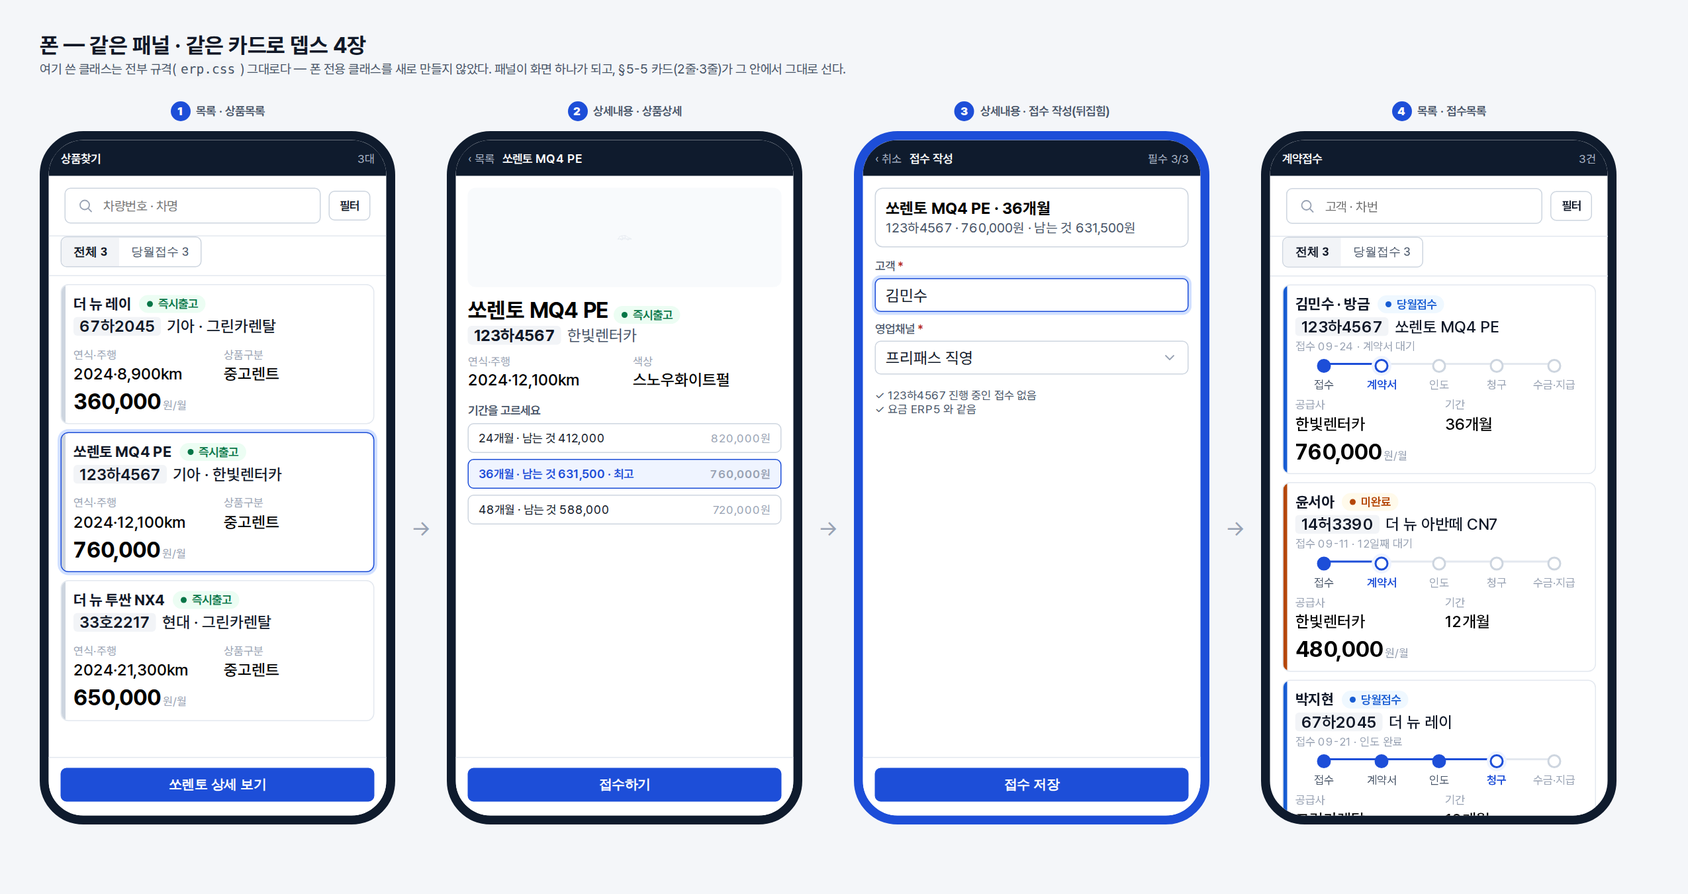
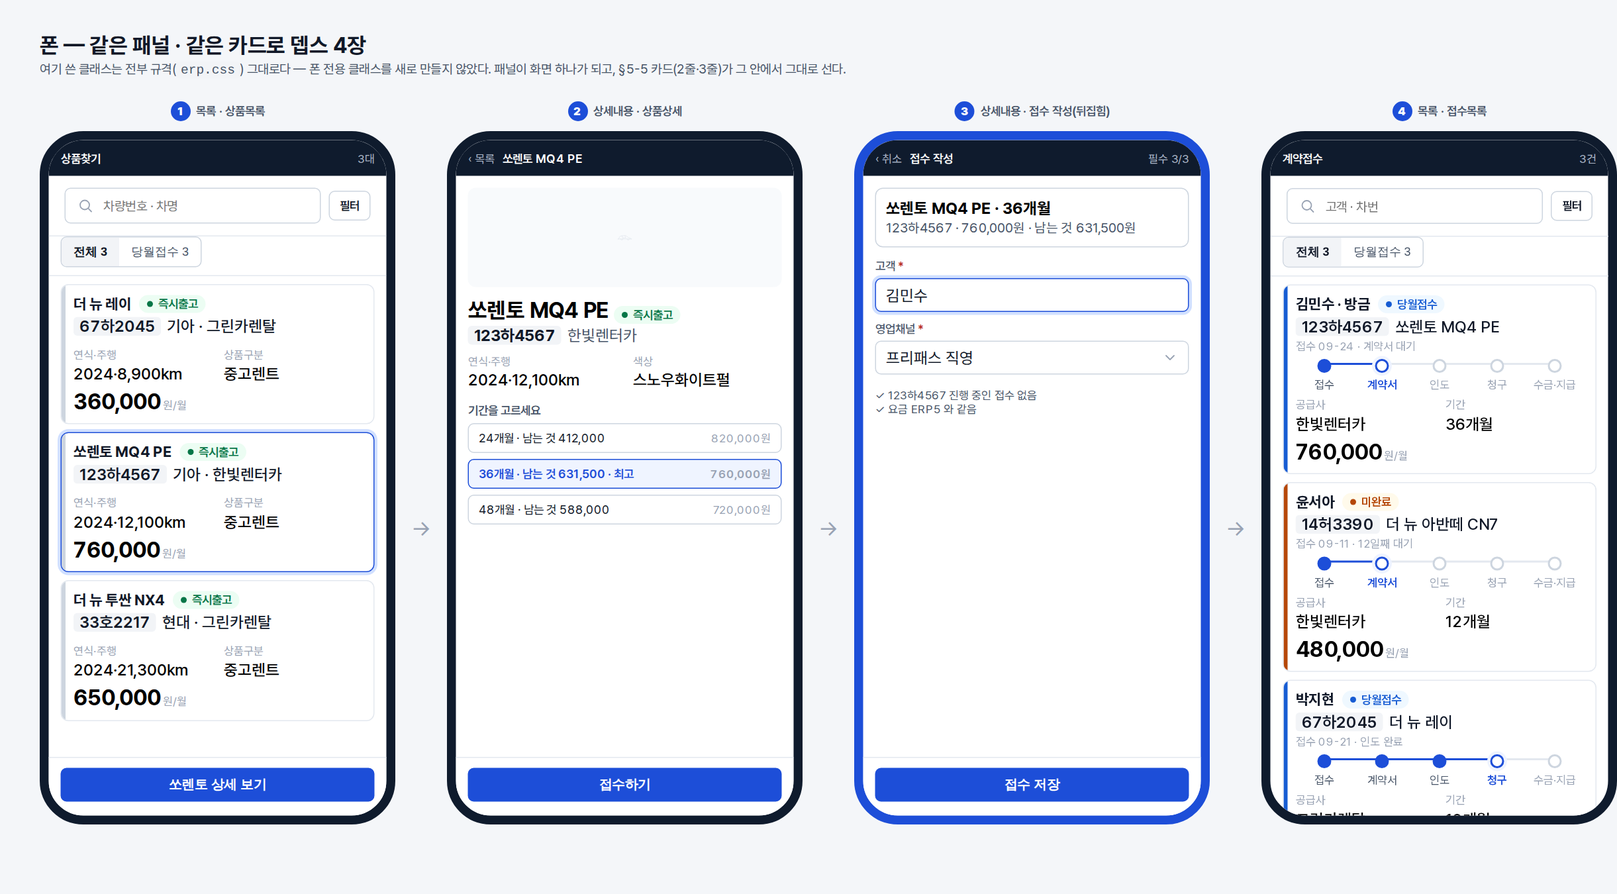
[Claude] 시안 I — 위 상품목록·상품상세, 아래 접수목록 전체 폭 배치. erp-panel--compact 를 opt-in modifier로 정리
Claude-Session: https://claude.ai/code/session_01VHqvSXhUy82o1cFFrYMP3F

diff --git a/design/erp-standard/reference/bottom-intake.html b/design/erp-standard/reference/bottom-intake.html
@@ -1,0 +1,94 @@
+<!doctype html>
+<html lang="ko">
+<head>
+<meta charset="utf-8">
+<meta name="viewport" content="width=device-width, initial-scale=1">
+<title>ERP 표준 — 위 상품목록·상품상세, 아래 접수목록 전체 폭 (참고)</title>
+<!-- §5-4 배치 변형 참고 — 대표 2026-09-24 「이건 접수를 하기 위한 거다 … 접수 과정을 명확하게 지켜보려면
+     아래쪽을 다 넓게 접수목록을 주고, 상품찾기와 상품상세는 그 위에 … 패널은 세 개가 맞다, 배치가 관건」.
+     위: 상품목록(좁게, erp-panel--compact) + 상품상세(넓게). 아래: 접수목록 전체 폭 — 접수가 이 화면의 목적이라
+     가장 넓고 눈에 띈다. 카드는 §5-3 원안(긴 가로 카드) 그대로. 이름 · 차량번호는 가상 예시다. -->
+<link rel="stylesheet" href="https://cdn.jsdelivr.net/gh/orioncactus/pretendard@v1.3.9/dist/web/variable/pretendardvariable-dynamic-subset.css">
+<link rel="stylesheet" href="../erp.css">
+<link rel="stylesheet" href="bottom-intake.css">
+</head>
+<body class="erp-app ref-page" data-screen="bottom-intake">
+
+<header class="erp-topbar" data-region="topbar">
+  <div class="erp-brand"><span class="erp-brand-mark">F</span>FreePass Admin</div>
+  <button class="erp-gsearch" type="button" aria-label="통합 검색"><svg viewBox="0 0 24 24"><circle cx="11" cy="11" r="7"/><path d="m21 21-4.3-4.3"/></svg>통합 검색<kbd>/</kbd></button>
+  <div class="erp-topbar-right">
+    <span class="erp-badge erp-badge--warn">가상 데이터</span>
+    <div class="erp-user"><span class="erp-avatar">관</span><div>관리자<small>프리패스 본사</small></div></div>
+  </div>
+</header>
+<p class="ref-note">접수가 이 화면의 목적이라 접수목록이 아래에서 전체 폭 · 절반 가까운 높이를 갖는다 — 1366px 폭 기준.</p>
+
+<main class="bi-main" data-region="grid">
+  <div class="bi-top">
+    <section class="erp-panel erp-panel--compact">
+      <div class="erp-panel-head"><span class="erp-panel-kind">목록</span><h2>상품목록</h2><span>3대</span></div>
+      <form class="erp-searchbar" data-region="filter" role="search"><label class="erp-search"><svg viewBox="0 0 24 24"><circle cx="11" cy="11" r="7"/><path d="m21 21-4.3-4.3"/></svg><input placeholder="차량번호 · 차명" aria-label="검색"></label><details class="erp-filter-more"><summary class="erp-btn erp-btn--sm">필터</summary></details></form>
+      <div class="erp-toolbar" data-region="grid-toolbar" style="padding:0 var(--erp-sp-3) var(--erp-sp-2)"><div class="erp-seg" role="group" aria-label="퀵 필터"><button type="button" aria-pressed="true">전체 3</button><button type="button" aria-pressed="false">즉시출고 3</button></div></div>
+      <div class="erp-panel-body"><div class="erp-rowcards" style="overflow:visible"><article class="erp-rowcard erp-rowcard--no-steps">
+    <div class="erp-rowcard-id"><h3 class="erp-rowcard-title"><a class="erp-rowcard-link" href="#">더 뉴 레이</a><span class="erp-badge erp-badge--ok">즉시출고</span></h3><div class="erp-rowcard-car"><b>67하2045</b>기아 · 그린카렌탈</div></div>
+    <dl class="erp-rowcard-facts"><div><dt>상품구분</dt><dd>중고렌트</dd></div><div><dt>기간</dt><dd>36개월</dd></div></dl>
+    <div class="erp-rowcard-amount"><strong>360,000<small>원/월</small></strong></div><svg class="erp-rowcard-go" viewBox="0 0 24 24" aria-hidden="true"><path d="m9 6 6 6-6 6"/></svg>
+  </article><article class="erp-rowcard erp-rowcard--no-steps" aria-current="true">
+    <div class="erp-rowcard-id"><h3 class="erp-rowcard-title"><a class="erp-rowcard-link" href="#">쏘렌토 MQ4 PE</a><span class="erp-badge erp-badge--ok">즉시출고</span></h3><div class="erp-rowcard-car"><b>123하4567</b>기아 · 한빛렌터카</div></div>
+    <dl class="erp-rowcard-facts"><div><dt>상품구분</dt><dd>중고렌트</dd></div><div><dt>기간</dt><dd>36개월</dd></div></dl>
+    <div class="erp-rowcard-amount"><strong>760,000<small>원/월</small></strong></div><svg class="erp-rowcard-go" viewBox="0 0 24 24" aria-hidden="true"><path d="m9 6 6 6-6 6"/></svg>
+  </article><article class="erp-rowcard erp-rowcard--no-steps">
+    <div class="erp-rowcard-id"><h3 class="erp-rowcard-title"><a class="erp-rowcard-link" href="#">더 뉴 투싼 NX4</a><span class="erp-badge erp-badge--ok">즉시출고</span></h3><div class="erp-rowcard-car"><b>33호2217</b>현대 · 그린카렌탈</div></div>
+    <dl class="erp-rowcard-facts"><div><dt>상품구분</dt><dd>중고렌트</dd></div><div><dt>기간</dt><dd>36개월</dd></div></dl>
+    <div class="erp-rowcard-amount"><strong>650,000<small>원/월</small></strong></div><svg class="erp-rowcard-go" viewBox="0 0 24 24" aria-hidden="true"><path d="m9 6 6 6-6 6"/></svg>
+  </article></div></div>
+    </section>
+
+    <section class="erp-panel">
+      <div class="erp-panel-head"><span class="erp-panel-kind">상세내용</span><h2>상품상세</h2><span>고른 상품</span></div>
+      <div class="bi-detail-body">
+        <div class="photo"><svg viewBox="0 0 120 60" aria-hidden="true"><path d="M8 42h104M14 42l6-14c2-5 6-8 12-9l22-3c8-1 16 1 22 6l12 10 14 3c4 1 6 4 6 7M30 42a8 8 0 1 0 16 0M78 42a8 8 0 1 0 16 0M40 20l4 14h24l-6-15"/></svg></div>
+        <h2 class="name">쏘렌토 MQ4 PE <span class="erp-badge erp-badge--ok">즉시출고</span></h2>
+        <p class="sub"><b>123하4567</b>기아 · 시그니처 · 한빛렌터카 · 디젤</p>
+        <dl class="erp-props">
+          <div><dt>연식 · 주행</dt><dd>2024 · 12,100km</dd></div>
+          <div><dt>색상</dt><dd>스노우화이트펄</dd></div>
+        </dl>
+        <div class="box">
+          <p class="box-title">기간을 고르세요</p>
+          <div class="bi-terms">
+            <div class="bi-term" aria-pressed="false"><b>24개월</b><strong>820,000원</strong><em>남는 것 412,000</em></div>
+            <div class="bi-term" aria-pressed="true"><b>36개월</b><strong>760,000원</strong><em>남는 것 631,500 · 최고</em></div>
+            <div class="bi-term" aria-pressed="false"><b>48개월</b><strong>720,000원</strong><em>남는 것 588,000</em></div>
+          </div>
+        </div>
+        <div class="bi-foot"><button class="erp-btn erp-btn--primary" type="button">접수하기</button></div>
+      </div>
+    </section>
+  </div>
+
+  <section class="erp-panel bi-bottom">
+    <div class="erp-panel-head"><span class="erp-panel-kind">목록</span><h2>접수목록</h2><span>전체 3건 · 오늘 접수 1건</span></div>
+    <form class="erp-searchbar" data-region="filter" role="search"><label class="erp-search"><svg viewBox="0 0 24 24"><circle cx="11" cy="11" r="7"/><path d="m21 21-4.3-4.3"/></svg><input placeholder="고객 · 차번 · 공급사 · 담당" aria-label="검색"></label><details class="erp-filter-more"><summary class="erp-btn erp-btn--sm">필터</summary></details></form>
+    <div class="erp-toolbar" data-region="grid-toolbar" style="padding:0 var(--erp-sp-4) var(--erp-sp-2)"><div class="erp-seg" role="group" aria-label="퀵 필터"><button type="button" aria-pressed="true">전체 3</button><button type="button" aria-pressed="false">당월접수 2</button><button type="button" aria-pressed="false">미완료 1</button></div></div>
+    <div class="erp-panel-body"><div class="erp-rowcards" style="padding:0 var(--erp-sp-4) var(--erp-sp-4)"><article class="erp-rowcard" data-tone="info">
+    <div class="erp-rowcard-id"><h3 class="erp-rowcard-title"><a class="erp-rowcard-link" href="#">김민수 · 방금</a><span class="erp-badge erp-badge--info">당월접수</span></h3><div class="erp-rowcard-car"><b>123하4567</b>쏘렌토 MQ4 PE</div><div class="erp-rowcard-meta">접수 09-24 · 계약서 대기</div></div>
+    <ol class="erp-rowcard-steps" aria-label="진행"><li data-state="done"><i></i>접수</li><li aria-current="step"><i></i>계약서</li><li><i></i>인도</li><li><i></i>청구</li><li><i></i>수금·지급</li></ol>
+    <dl class="erp-rowcard-facts"><div><dt>공급사</dt><dd>한빛렌터카</dd></div><div><dt>상품·기간</dt><dd>장기렌트 · 36개월</dd></div><div><dt>영업채널</dt><dd>프리패스 직영</dd></div><div><dt>보증금</dt><dd>없음</dd></div></dl>
+    <div class="erp-rowcard-amount"><strong>760,000<small>원/월</small></strong></div><svg class="erp-rowcard-go" viewBox="0 0 24 24" aria-hidden="true"><path d="m9 6 6 6-6 6"/></svg>
+  </article><article class="erp-rowcard" data-tone="warn">
+    <div class="erp-rowcard-id"><h3 class="erp-rowcard-title"><a class="erp-rowcard-link" href="#">윤서아</a><span class="erp-badge erp-badge--warn">미완료</span></h3><div class="erp-rowcard-car"><b>14허3390</b>더 뉴 아반떼 CN7</div><div class="erp-rowcard-meta">접수 09-11 · 12일째 대기</div></div>
+    <ol class="erp-rowcard-steps" aria-label="진행"><li data-state="done"><i></i>접수</li><li aria-current="step"><i></i>계약서</li><li><i></i>인도</li><li><i></i>청구</li><li><i></i>수금·지급</li></ol>
+    <dl class="erp-rowcard-facts"><div><dt>공급사</dt><dd>한빛렌터카</dd></div><div><dt>상품·기간</dt><dd>장기렌트 · 12개월</dd></div><div><dt>영업채널</dt><dd>서울중앙지점</dd></div><div><dt>보증금</dt><dd>없음</dd></div></dl>
+    <div class="erp-rowcard-amount"><strong>480,000<small>원/월</small></strong></div><svg class="erp-rowcard-go" viewBox="0 0 24 24" aria-hidden="true"><path d="m9 6 6 6-6 6"/></svg>
+  </article><article class="erp-rowcard" data-tone="info">
+    <div class="erp-rowcard-id"><h3 class="erp-rowcard-title"><a class="erp-rowcard-link" href="#">박지현</a><span class="erp-badge erp-badge--info">당월접수</span></h3><div class="erp-rowcard-car"><b>67하2045</b>더 뉴 레이</div><div class="erp-rowcard-meta">접수 09-21 · 인도 완료</div></div>
+    <ol class="erp-rowcard-steps" aria-label="진행"><li data-state="done"><i></i>접수</li><li data-state="done"><i></i>계약서</li><li data-state="done"><i></i>인도</li><li aria-current="step"><i></i>청구</li><li><i></i>수금·지급</li></ol>
+    <dl class="erp-rowcard-facts"><div><dt>공급사</dt><dd>그린카렌탈</dd></div><div><dt>상품·기간</dt><dd>장기렌트 · 12개월</dd></div><div><dt>영업채널</dt><dd>프리패스 직영</dd></div><div><dt>보증금</dt><dd>없음</dd></div></dl>
+    <div class="erp-rowcard-amount"><strong>420,000<small>원/월</small></strong></div><svg class="erp-rowcard-go" viewBox="0 0 24 24" aria-hidden="true"><path d="m9 6 6 6-6 6"/></svg>
+  </article></div></div>
+  </section>
+</main>
+</body>
+</html>

diff --git a/design/erp-standard/reference/mobile-depth.html b/design/erp-standard/reference/mobile-depth.html
@@ -16,7 +16,7 @@
 <p class="ref-desc">여기 쓴 클래스는 전부 규격(<code>erp.css</code>) 그대로다 — 폰 전용 클래스를 새로 만들지 않았다. 패널이 화면 하나가 되고, §5-5 카드(2줄·3줄)가 그 안에서 그대로 선다.</p>
 <div class="phones">
 <div class="phone-wrap"><p class="phone-cap"><b>1</b>목록 · 상품목록</p><div class="phone"><div class="phone-top">상품찾기<small>3대</small></div>
-  <div class="phone-body erp-panel erp-panel-body">
+  <div class="phone-body erp-panel erp-panel-body erp-panel--compact">
     <form class="erp-searchbar" data-region="filter" role="search">
       <label class="erp-search"><svg viewBox="0 0 24 24"><circle cx="11" cy="11" r="7"/><path d="m21 21-4.3-4.3"/></svg><input placeholder="차량번호 · 차명" aria-label="검색"></label>
       <details class="erp-filter-more"><summary class="erp-btn erp-btn--sm">필터</summary></details>
@@ -40,7 +40,7 @@
   </div>
   <div class="phone-bar"><button class="erp-btn erp-btn--primary" type="button">쏘렌토 상세 보기</button></div>
 </div></div><span class="arrow">→</span><div class="phone-wrap"><p class="phone-cap"><b>2</b>상세내용 · 상품상세</p><div class="phone"><div class="phone-top"><span class="phone-back">‹ 목록</span>쏘렌토 MQ4 PE</div>
-  <div class="phone-body erp-panel erp-panel-body" style="padding:var(--erp-sp-3)">
+  <div class="phone-body erp-panel erp-panel-body erp-panel--compact" style="padding:var(--erp-sp-3)">
     <div class="phone-photo"><svg viewBox="0 0 120 60" aria-hidden="true"><path d="M8 42h104M14 42l6-14c2-5 6-8 12-9l22-3c8-1 16 1 22 6l12 10 14 3c4 1 6 4 6 7M30 42a8 8 0 1 0 16 0M78 42a8 8 0 1 0 16 0M40 20l4 14h24l-6-15"/></svg></div>
     <h2 style="margin:10px 0 2px;font-size:var(--erp-fs-title);font-weight:var(--erp-fw-bold)">쏘렌토 MQ4 PE <span class="erp-badge erp-badge--ok">즉시출고</span></h2>
     <p style="margin:0 0 10px;color:var(--erp-color-text-2)"><b style="margin-right:6px;padding:0 6px;border-radius:var(--erp-r-sm);background:var(--erp-color-neutral-bg);color:var(--erp-color-text)">123하4567</b>한빛렌터카</p>
@@ -54,7 +54,7 @@
   </div>
   <div class="phone-bar"><button class="erp-btn erp-btn--primary" type="button">접수하기</button></div>
 </div></div><span class="arrow">→</span><div class="phone-wrap"><p class="phone-cap"><b>3</b>상세내용 · 접수 작성(뒤집힘)</p><div class="phone phone--flip"><div class="phone-top"><span class="phone-back">‹ 취소</span>접수 작성<small>필수 3/3</small></div>
-  <div class="phone-body erp-panel erp-panel-body" style="padding:var(--erp-sp-3)">
+  <div class="phone-body erp-panel erp-panel-body erp-panel--compact" style="padding:var(--erp-sp-3)">
     <div class="erp-inline-form" style="border:1px solid var(--erp-color-line-strong);border-radius:var(--erp-r-lg);padding:10px;margin-bottom:12px">
       <div><b style="display:block;font-weight:var(--erp-fw-bold)">쏘렌토 MQ4 PE · 36개월</b><small style="color:var(--erp-color-text-2)">123하4567 · 760,000원 · 남는 것 631,500원</small></div>
     </div>
@@ -64,7 +64,7 @@
   </div>
   <div class="phone-bar"><button class="erp-btn erp-btn--primary" type="submit">접수 저장</button></div>
 </div></div><span class="arrow">→</span><div class="phone-wrap"><p class="phone-cap"><b>4</b>목록 · 접수목록</p><div class="phone"><div class="phone-top">계약접수<small>3건</small></div>
-  <div class="phone-body erp-panel erp-panel-body">
+  <div class="phone-body erp-panel erp-panel-body erp-panel--compact">
     <form class="erp-searchbar" data-region="filter" role="search">
       <label class="erp-search"><svg viewBox="0 0 24 24"><circle cx="11" cy="11" r="7"/><path d="m21 21-4.3-4.3"/></svg><input placeholder="고객 · 차번" aria-label="검색"></label>
       <details class="erp-filter-more"><summary class="erp-btn erp-btn--sm">필터</summary></details>

diff --git a/design/erp-standard/reference/bottom-intake.css b/design/erp-standard/reference/bottom-intake.css
@@ -1,0 +1,29 @@
+/* 참고 페이지 — 위에 상품목록 · 상품상세를 나란히, 아래에 접수목록을 전체 폭으로 (대표 2026-09-24
+ *   「이건 접수를 하기 위한 거다 … 접수 과정을 명확하게 지켜보기 위해 아래쪽을 다 넓게 접수목록을 주고
+ *    상품찾기와 상품상세는 그 위에 배치 … 패널은 세 개가 맞다, 배치가 관건」)
+ * 접수가 이 화면의 목적이라 접수목록이 화면의 절반 가까이, 전체 폭을 갖는다. 그만큼 넓으니 접수 카드는
+ * §5-3 긴 카드(넓은 모양)를 그대로 쓴다 — erp-panel--compact 를 안 붙인다. 위 두 패널은 상품목록만 좁게(erp-panel--compact). */
+body.ref-page { margin: 0; padding: 0; height: 100vh; display: flex; flex-direction: column; background: var(--erp-color-bg); font-family: var(--erp-font-family); font-size: var(--erp-fs-body); }
+.bi-main { display: grid; grid-template-rows: 1fr 1fr; gap: var(--erp-sp-4); flex: 1; min-height: 0; padding: var(--erp-sp-4) var(--erp-sp-5); box-sizing: border-box; }
+.bi-top { display: grid; grid-template-columns: 380px minmax(0, 1fr); gap: var(--erp-sp-4); min-height: 0; }
+.ref-note { padding: 10px var(--erp-sp-5) 0; color: var(--erp-color-text-2); font-size: var(--erp-fs-label); }
+.bi-detail-body { padding: var(--erp-sp-4); display: flex; flex-direction: column; gap: 12px; }
+.bi-detail-body .photo { display: grid; place-items: center; height: 120px; border-radius: var(--erp-r-lg); background: var(--erp-color-sunken); color: var(--erp-color-line-strong); }
+.bi-detail-body .photo svg { width: 110px; height: 52px; fill: none; stroke: currentColor; stroke-width: 1.2; }
+.bi-detail-body .name { display: flex; align-items: center; gap: var(--erp-sp-2); margin: 0; font-size: var(--erp-fs-title); font-weight: var(--erp-fw-bold); color: var(--erp-color-text); }
+.bi-detail-body .sub { margin: 4px 0 0; color: var(--erp-color-text-2); }
+.bi-detail-body .sub b { margin-right: 6px; padding: 0 6px; border-radius: var(--erp-r-sm); background: var(--erp-color-neutral-bg); color: var(--erp-color-text); font-weight: var(--erp-fw-semibold); }
+.bi-detail-body .box { padding: 12px 14px; border: 1px solid var(--erp-color-line); border-radius: var(--erp-r-lg); background: var(--erp-color-sunken); }
+.bi-detail-body .box-title { margin: 0 0 8px; color: var(--erp-color-text-2); font-size: var(--erp-fs-label); font-weight: var(--erp-fw-semibold); }
+.bi-terms { display: flex; gap: var(--erp-sp-3); }
+.bi-term { flex: 1; display: flex; flex-direction: column; gap: 2px; padding: 9px 12px; border: 1px solid var(--erp-color-line-strong); border-radius: var(--erp-r-lg); background: var(--erp-color-surface); }
+.bi-term b { font-size: var(--erp-fs-label); font-weight: var(--erp-fw-semibold); color: var(--erp-color-text-2); }
+.bi-term strong { font-size: var(--erp-fs-section); font-weight: var(--erp-fw-bold); color: var(--erp-color-text); }
+.bi-term em { color: var(--erp-color-ok); font-size: var(--erp-fs-caption); font-style: normal; font-weight: var(--erp-fw-semibold); }
+.bi-term[aria-pressed="true"] { border: 2px solid var(--erp-color-primary); background: var(--erp-color-primary-weak); }
+.bi-term[aria-pressed="true"] b, .bi-term[aria-pressed="true"] strong { color: var(--erp-color-primary); }
+.bi-foot { margin-top: auto; padding-top: 10px; border-top: 1px solid var(--erp-color-line); }
+.bi-foot .erp-btn--primary { width: 100%; justify-content: center; height: 40px; font-size: var(--erp-fs-section); }
+/* 아래 접수목록 — 전체 폭, 긴 카드를 그대로(§5-3), 좁은 변형 없음 */
+.bi-bottom .erp-panel-body { padding: var(--erp-sp-2) 0 0; }
+.bi-bottom .erp-rowcards { background: transparent; }

diff --git a/design/erp-standard/reference/stacked-panels.html b/design/erp-standard/reference/stacked-panels.html
@@ -26,7 +26,7 @@
 
 <main class="stack-main" data-region="grid">
   <div class="stack-left">
-    <section class="erp-panel">
+    <section class="erp-panel erp-panel--compact">
       <div class="erp-panel-head"><span class="erp-panel-kind">목록</span><h2>상품목록</h2><span>3대</span></div>
       <form class="erp-searchbar" data-region="filter" role="search"><label class="erp-search"><svg viewBox="0 0 24 24"><circle cx="11" cy="11" r="7"/><path d="m21 21-4.3-4.3"/></svg><input placeholder="차량번호 · 차명" aria-label="검색"></label><details class="erp-filter-more"><summary class="erp-btn erp-btn--sm">필터</summary></details></form>
       <div class="erp-toolbar" data-region="grid-toolbar" style="padding:0 var(--erp-sp-3) var(--erp-sp-2)"><div class="erp-seg" role="group" aria-label="퀵 필터"><button type="button" aria-pressed="true">전체 3</button><button type="button" aria-pressed="false">즉시출고 3</button></div></div>
@@ -44,7 +44,7 @@
     <div class="erp-rowcard-amount"><strong>650,000<small>원/월</small></strong></div><svg class="erp-rowcard-go" viewBox="0 0 24 24" aria-hidden="true"><path d="m9 6 6 6-6 6"/></svg>
   </article></div></div>
     </section>
-    <section class="erp-panel">
+    <section class="erp-panel erp-panel--compact">
       <div class="erp-panel-head"><span class="erp-panel-kind">목록</span><h2>접수목록</h2><span>3건</span></div>
       <form class="erp-searchbar" data-region="filter" role="search"><label class="erp-search"><svg viewBox="0 0 24 24"><circle cx="11" cy="11" r="7"/><path d="m21 21-4.3-4.3"/></svg><input placeholder="고객 · 차번" aria-label="검색"></label><details class="erp-filter-more"><summary class="erp-btn erp-btn--sm">필터</summary></details></form>
       <div class="erp-toolbar" data-region="grid-toolbar" style="padding:0 var(--erp-sp-3) var(--erp-sp-2)"><div class="erp-seg" role="group" aria-label="퀵 필터"><button type="button" aria-pressed="true">전체 3</button><button type="button" aria-pressed="false">당월접수 2</button></div></div>

diff --git a/design/erp-standard/erp.css b/design/erp-standard/erp.css
@@ -432,8 +432,8 @@
 .erp-panel-head span { margin-left: auto; color: var(--erp-color-text-3); font-size: var(--erp-fs-caption); }
 .erp-panel-body { flex: 1; min-height: 0; overflow: auto; }
 /* 목록 패널 안 — 좁은 폭에서도 서는 작은 긴 카드(§5-3 erp-rowcard 를 그대로 쓰되 칸을 좁힌다) */
-.erp-panel .erp-rowcards { padding: var(--erp-sp-2) var(--erp-sp-3) var(--erp-sp-3); gap: 8px; background: transparent; }
-.erp-panel .erp-rowcard { grid-template-columns: minmax(0, 1fr); grid-template-areas: "id" "steps" "facts" "amount"; gap: 6px; padding: 10px var(--erp-sp-3); }
-.erp-panel .erp-rowcard-facts { grid-template-columns: repeat(2, minmax(0, 1fr)); gap: 4px var(--erp-sp-3); }
-.erp-panel .erp-rowcard-amount { text-align: left; }
-.erp-panel .erp-rowcard-go { display: none; }
+.erp-panel--compact .erp-rowcards { padding: var(--erp-sp-2) var(--erp-sp-3) var(--erp-sp-3); gap: 8px; background: transparent; }
+.erp-panel--compact .erp-rowcard { grid-template-columns: minmax(0, 1fr); grid-template-areas: "id" "steps" "facts" "amount"; gap: 6px; padding: 10px var(--erp-sp-3); }
+.erp-panel--compact .erp-rowcard-facts { grid-template-columns: repeat(2, minmax(0, 1fr)); gap: 4px var(--erp-sp-3); }
+.erp-panel--compact .erp-rowcard-amount { text-align: left; }
+.erp-panel--compact .erp-rowcard-go { display: none; }

diff --git a/design/erp-standard/README.md b/design/erp-standard/README.md
@@ -207,6 +207,18 @@
 상세내용 패널이 오른쪽 나머지 폭을 전부 가져간다. 확인 그림: [reference/stacked-panels.html](reference/stacked-panels.html) ·
 `images/stacked-panels.png`(1366px 기준). 패널 · 카드 부품은 완전히 같다 — 배치(그리드 열 나눔)만 다르다.
 
+**패널 배치 — 위에 상품목록 · 상품상세, 아래에 접수목록을 전체 폭으로** (대표 2026-09-24 「이건 접수를 하기 위한 거다 …
+접수 과정을 명확하게 지켜보려면 아래쪽을 다 넓게 접수목록을 주고, 상품찾기와 상품상세는 그 위에 … 패널은 세 개가 맞다,
+배치가 관건」). 이 화면의 목적은 접수이므로 **접수목록이 화면에서 가장 넓고 눈에 띈다** — 아래 절반 가까운 높이 ·
+전체 폭. 위쪽은 상품목록(좁게, `erp-panel--compact`) + 상품상세(넓게)가 나란히 선다. 접수목록이 전체 폭을 가지므로
+카드는 `erp-panel--compact` 를 붙이지 않고 §5-3 원안(긴 가로 카드 — 진행 단계가 한 줄로 가로 펼쳐짐)을 그대로 쓴다 —
+좁은 목록보다 단계가 더 잘 읽힌다. 확인 그림: [reference/bottom-intake.html](reference/bottom-intake.html) ·
+`images/bottom-intake.png`(1366px 기준).
+
+**`erp-panel--compact` modifier 정리** — 카드를 세로로 쌓아 좁은 폭에 맞추는 §5-4 규칙은 모든 목록 패널에 무조건
+걸리지 않는다. 패널이 좁을 때만(왼쪽 사이드 목록 · 폰 화면 하나) `erp-panel--compact` 를 붙인다. 패널이 넓을 때
+(접수목록을 화면 아래 전체 폭에 둘 때)는 붙이지 않고 §5-3 원안 긴 카드를 그대로 쓴다.
+
 ## 6. ERP 공통 동작 규칙
 
 1. **조회 우선** — 화면 진입 시 기본 조건(이번 달·내 담당)으로 자동 조회. 조건은 사용자별 저장.
